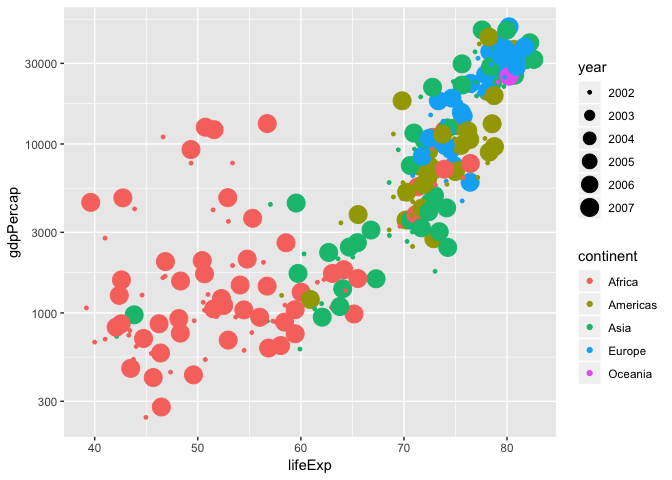
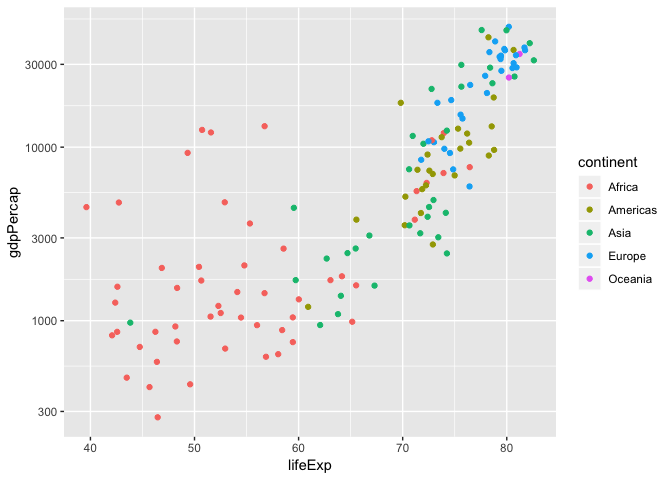
Added graphs.

diff --git a/hw02_gapminder_dplyr.md b/hw02_gapminder_dplyr.md
@@ -8,21 +8,19 @@ future work on R.
 
 \#\#Loading data
 
-[Readme](hw02_gapminder_dplyr.md)
-
 ``` r
 library(gapminder)
 library(tidyverse)
 ```
 
-    ## ── Attaching packages ──────────────────────────────────────────────────────────────────────── tidyverse 1.2.1 ──
+    ## ── Attaching packages ────────────────────────────────────────────────────────────── tidyverse 1.2.1 ──
 
     ## ✔ ggplot2 3.0.0     ✔ purrr   0.2.5
     ## ✔ tibble  1.4.2     ✔ dplyr   0.7.6
     ## ✔ tidyr   0.8.1     ✔ stringr 1.3.1
     ## ✔ readr   1.1.1     ✔ forcats 0.3.0
 
-    ## ── Conflicts ─────────────────────────────────────────────────────────────────────────── tidyverse_conflicts() ──
+    ## ── Conflicts ───────────────────────────────────────────────────────────────── tidyverse_conflicts() ──
     ## ✖ dplyr::filter() masks stats::filter()
     ## ✖ dplyr::lag()    masks stats::lag()
 
@@ -278,6 +276,10 @@ ggplot(gapminder, aes(lifeExp)) +
 
 ## Explore various plot types
 
+### A scatterplot of two quantitative variables
+
+In this section I will explore gdpPercap as a function of lifeExp:
+
 ``` r
   ggplot(gapminder, aes(lifeExp,gdpPercap, color=continent)) +
     geom_point(aes(alpha=year)) +
@@ -286,31 +288,105 @@ ggplot(gapminder, aes(lifeExp)) +
 
 ![](hw02_gapminder_dplyr_files/figure-gfm/unnamed-chunk-14-1.png)<!-- -->
 
+In the above graph I used transparency to differentiate the year of the
+data. Now, I will just use the last year of data, which is 2007:
+
 ``` r
 a<-gapminder%>%
-  filter(year > 2000)
+  filter(year == 2007)
 a
 ```
 
-    ## # A tibble: 284 x 6
-    ##    country     continent  year lifeExp      pop gdpPercap
-    ##    <fct>       <fct>     <int>   <dbl>    <int>     <dbl>
-    ##  1 Afghanistan Asia       2002    42.1 25268405      727.
-    ##  2 Afghanistan Asia       2007    43.8 31889923      975.
-    ##  3 Albania     Europe     2002    75.7  3508512     4604.
-    ##  4 Albania     Europe     2007    76.4  3600523     5937.
-    ##  5 Algeria     Africa     2002    71.0 31287142     5288.
-    ##  6 Algeria     Africa     2007    72.3 33333216     6223.
-    ##  7 Angola      Africa     2002    41.0 10866106     2773.
-    ##  8 Angola      Africa     2007    42.7 12420476     4797.
-    ##  9 Argentina   Americas   2002    74.3 38331121     8798.
-    ## 10 Argentina   Americas   2007    75.3 40301927    12779.
-    ## # ... with 274 more rows
+    ## # A tibble: 142 x 6
+    ##    country     continent  year lifeExp       pop gdpPercap
+    ##    <fct>       <fct>     <int>   <dbl>     <int>     <dbl>
+    ##  1 Afghanistan Asia       2007    43.8  31889923      975.
+    ##  2 Albania     Europe     2007    76.4   3600523     5937.
+    ##  3 Algeria     Africa     2007    72.3  33333216     6223.
+    ##  4 Angola      Africa     2007    42.7  12420476     4797.
+    ##  5 Argentina   Americas   2007    75.3  40301927    12779.
+    ##  6 Australia   Oceania    2007    81.2  20434176    34435.
+    ##  7 Austria     Europe     2007    79.8   8199783    36126.
+    ##  8 Bahrain     Asia       2007    75.6    708573    29796.
+    ##  9 Bangladesh  Asia       2007    64.1 150448339     1391.
+    ## 10 Belgium     Europe     2007    79.4  10392226    33693.
+    ## # ... with 132 more rows
 
 ``` r
 ggplot(a, aes(lifeExp,gdpPercap, color=continent)) +
-    geom_point(aes(size=year)) +
+    geom_point() +
     scale_y_log10()
 ```
 
 ![](hw02_gapminder_dplyr_files/figure-gfm/unnamed-chunk-16-1.png)<!-- -->
+This graph presents data from only one year. It is easily appreciated
+the difference overall between lifeExp and gdpPercap in African
+countries where it is lower than in Europe and Oceania.
+
+### A plot of one quantitative variable.
+
+Now, I will look at the lifeExp data arranged by continent with a
+frequency polygon:
+
+``` r
+ggplot(gapminder, aes(lifeExp, color=continent)) +
+  geom_freqpoly()
+```
+
+    ## `stat_bin()` using `bins = 30`. Pick better value with `binwidth`.
+
+![](hw02_gapminder_dplyr_files/figure-gfm/unnamed-chunk-17-1.png)<!-- -->
+
+And now lets look at the distribution of this variable among continents.
+
+``` r
+ggplot(gapminder, aes(lifeExp, fill=continent)) +
+  geom_density(alpha=0.3)
+```
+
+![](hw02_gapminder_dplyr_files/figure-gfm/unnamed-chunk-18-1.png)<!-- -->
+…
+
+### A plot of one quantitative variable and one categorical.
+
+``` r
+g1 <- ggplot(gapminder, aes(continent, pop, fill = continent)) +
+    geom_boxplot() +
+  scale_y_log10()
+g2 <- ggplot(gapminder, aes(continent, lifeExp, fill = continent)) +
+    geom_boxplot()
+plot_grid(g1, g2)
+```
+
+![](hw02_gapminder_dplyr_files/figure-gfm/unnamed-chunk-20-1.png)<!-- -->
+
+``` r
+na <- gapminder %>%
+  select(country, year, gdpPercap, lifeExp) %>%
+  filter(country %in% c("Canada", "United States", "Mexico"))
+na
+```
+
+    ## # A tibble: 36 x 4
+    ##    country  year gdpPercap lifeExp
+    ##    <fct>   <int>     <dbl>   <dbl>
+    ##  1 Canada   1952    11367.    68.8
+    ##  2 Canada   1957    12490.    70.0
+    ##  3 Canada   1962    13462.    71.3
+    ##  4 Canada   1967    16077.    72.1
+    ##  5 Canada   1972    18971.    72.9
+    ##  6 Canada   1977    22091.    74.2
+    ##  7 Canada   1982    22899.    75.8
+    ##  8 Canada   1987    26627.    76.9
+    ##  9 Canada   1992    26343.    78.0
+    ## 10 Canada   1997    28955.    78.6
+    ## # ... with 26 more rows
+
+``` r
+na %>%
+  ggplot(aes(x = year, y = lifeExp, group = year, color = country)) +
+  facet_wrap(~country) +
+  geom_boxplot()
+```
+
+![](hw02_gapminder_dplyr_files/figure-gfm/unnamed-chunk-21-1.png)<!-- -->
